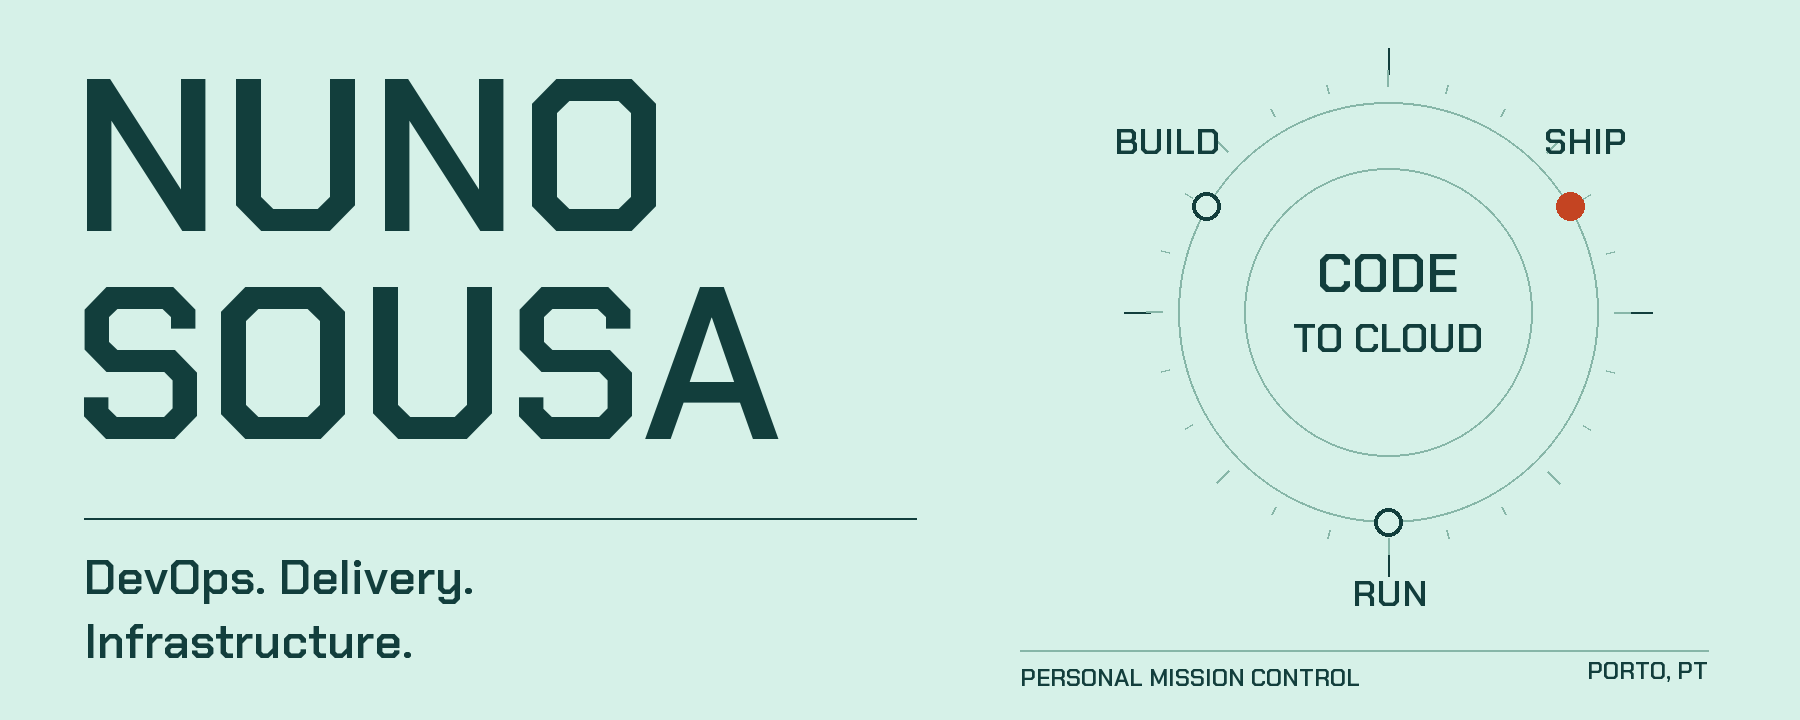
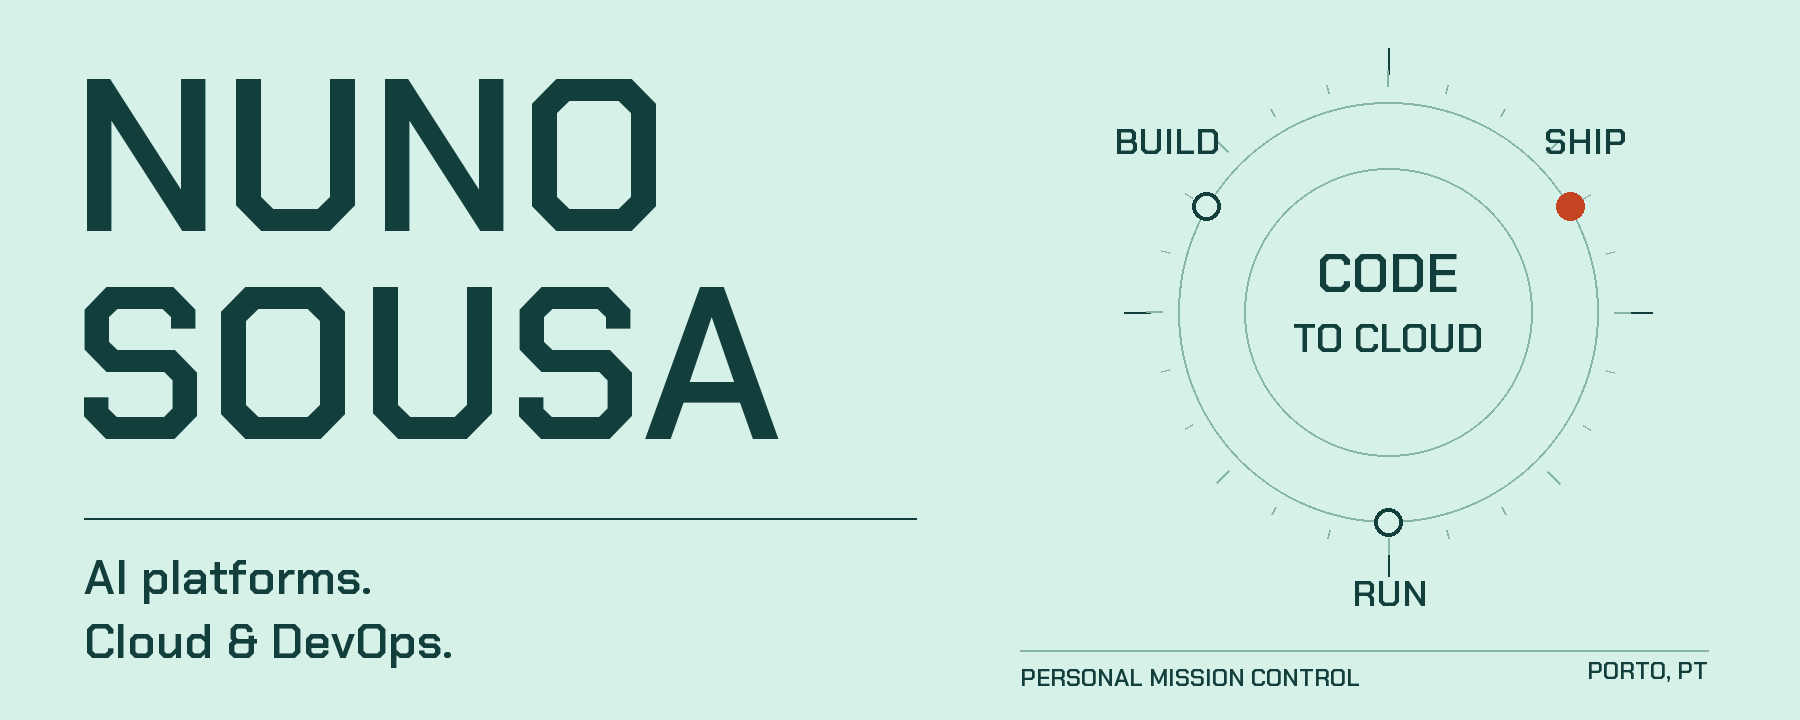
fix: reflect AI platform engineering role and experience

Changed region(s): [[0.0311, 0.7639, 0.28, 0.825], [0.0311, 0.8556, 0.2489, 0.9167]]

diff --git a/scripts/build-artwork.py b/scripts/build-artwork.py
@@ -37,8 +37,8 @@ def build():
     text(36, 8, "NUNO", 108)
     text(36, 112, "SOUSA", 108)
     line([(42, 259), (458, 259)], INK)
-    text(42, 273, "DevOps. Delivery.", 24)
-    text(42, 305, "Infrastructure.", 24)
+    text(42, 273, "AI platforms.", 24)
+    text(42, 305, "Cloud & DevOps.", 24)
 
     cx, cy, radius = 694, 156, 105
     ellipse((cx - radius, cy - radius, cx + radius, cy + radius))

diff --git a/PRODUCT.md b/PRODUCT.md
@@ -13,9 +13,12 @@ Present Nuno Sousa's personal GitHub profile in a distinctive, dynamic format.
 - User selected mission control: custom artwork, expandable command panels, and public GitHub activity refreshed by GitHub Actions.
 - Do not include a “What I'm building” section or project showcase.
 - Use direct, personal language rather than mission-control jargon or simulated terminal commands in the README. Keep the existing artwork and native expandable sections. Use hyphens instead of em dashes, including generated activity text.
-- Public profile facts: Nuno Sousa, DevOps Engineer, Porto, Portugal, Critical TechWorks; links already in README.md.
+- Current role: Nuno Sousa, AI Platform Engineer at Critical TechWorks, based in Porto, Portugal. Since October 2024, improves and maintains BMW's product-focused AI platform in the cloud. Lead with this role rather than the older DevOps About text.
+- Earlier experience: Cloud Platform Engineer at Critical TechWorks on Connected CI (August 2022-July 2025) and the AWS-based Orbit PaaS (November 2021-August 2022); DevOps Engineer at Toogas (August 2020-November 2021), using AWS, Jenkins, Prometheus, and Grafana for Magento infrastructure; founder and DevOps Engineer at Load Innovation (August 2016-August 2020); SAP Basis Consultant at Abaco Consulting (April 2012-July 2016). Role dates overlap as provided; do not invent a non-overlapping timeline or AI-specific tools not named in the source.
 - Refreshes are snapshots, not live service health or availability indicators.
 - No private activity, secrets, or fabricated metrics.
 
 ## Evidence on Hand
+User supplied a LinkedIn profile PDF in this conversation. Its headline and experience entries confirm the current AI Platform Engineer role, dates, responsibilities, and earlier career above. These take precedence over the public profile's older DevOps About text. Do not copy the PDF or personal contact details into the repository.
+
 The existing README and public profile/repository documentation checked during the initial README edit. Public LinkedIn profile https://www.linkedin.com/in/nunosowza/ reviewed October 2026: DevOps Engineer in About; current employer Critical TechWorks; GitHub Actions credential issued July 2024, expires July 2027; PSM I issued December 2022; Terraform Associate (002) expired March 2025; Adobe Commerce Cloud credential expired August 2023; SAP HANA support credential issued March 2014; native Portuguese and professional English. Full role history and About text are hidden from signed-out readers; do not infer them from recommendations, related posts, or certifications.

diff --git a/README.md b/README.md
@@ -1,5 +1,5 @@
 <a href="https://nunosousa.dev">
-  <img src="assets/mission-control.png" alt="Nuno Sousa - DevOps, delivery, and infrastructure. Porto, Portugal." width="100%">
+  <img src="assets/mission-control.png" alt="Nuno Sousa - AI platforms, cloud, and DevOps. Porto, Portugal." width="100%">
 </a>
 
 <p align="center">
@@ -10,12 +10,18 @@
   <a href="https://github.com/nunosousa-dev?tab=repositories">Repositories</a>
 </p>
 
-Hi, I'm Nuno. I'm a DevOps Engineer at [Critical TechWorks](https://www.criticaltechworks.com/), based in Porto, Portugal.
+Hi, I'm Nuno, an AI Platform Engineer at [Critical TechWorks](https://www.criticaltechworks.com/), based in Porto, Portugal.
 
-I work with automation, CI/CD, and infrastructure. Outside work, I spend time on my homelab and build small web apps.
+I help improve and maintain BMW's cloud-based AI platform. Before that, I worked on cloud platforms and CI/CD pipelines for BMW ConnectedDrive.
+
+Outside work, I spend time on my homelab and build small web apps.
 
 <details>
 <summary><strong>A bit more about me</strong></summary>
+
+I started in SAP systems administration, then founded Load Innovation, where I worked on infrastructure consulting and software development. At Toogas, I worked on AWS infrastructure, Jenkins pipelines, and monitoring for Magento applications.
+
+I joined Critical TechWorks in 2021, working on the AWS-based Orbit platform and later Connected CI. Since October 2024, I've been working on BMW's AI platform.
 
 My homelab runs Kubernetes on Talos Linux and Proxmox. I use Terraform to provision it and Argo CD to manage it through GitOps.
 
@@ -27,6 +33,8 @@ I'm a native Portuguese speaker and use English at work.
 
 <details>
 <summary><strong>Tools I use</strong></summary>
+
+My professional work has included AWS, Jenkins, Prometheus, and Grafana. In my personal projects, I also use:
 
 | Layer | Tools in my personal projects |
 | :--- | :--- |

diff --git a/.impeccable/surface-briefs/profile.md b/.impeccable/surface-briefs/profile.md
@@ -5,6 +5,8 @@ User-approved direction: mission control, daily public activity, expandable comm
 
 Copy refinement: the user requested a more human voice and hyphens instead of em dashes. Preserve the artwork, but use plain labels for the three profile disclosures, short first-person copy, and “Recent activity” instead of telemetry terminology. Remove simulated commands, redundant headings, and the promotional footer.
 
+Career correction: the supplied LinkedIn PDF confirms the current title AI Platform Engineer at Critical TechWorks, maintaining BMW's cloud-based AI platform since October 2024. The introduction and artwork descriptors now lead with AI platforms, cloud, and DevOps. Retain the existing layout and avoid inventing AI frameworks or model-development responsibilities.
+
 ## Direction contract
 THESIS: A personal mission control, not a stack of badges or third-party statistics widgets.
 

diff --git a/DESIGN.md b/DESIGN.md
@@ -79,7 +79,7 @@ The artwork uses Chakra Petch SemiBold, rasterized from the Google Fonts TTF; it
 
 - **Display:** the two-line name.
 - **Title / subtitle:** CODE / TO CLOUD in the orbit centre.
-- **Descriptor:** DevOps, delivery, and infrastructure beneath the name divider.
+- **Descriptor:** AI platforms, cloud, and DevOps beneath the name divider.
 - **Label:** BUILD, SHIP, and RUN around the orbit.
 - **Caption:** mission-control and location annotations along the bottom rule.
 
